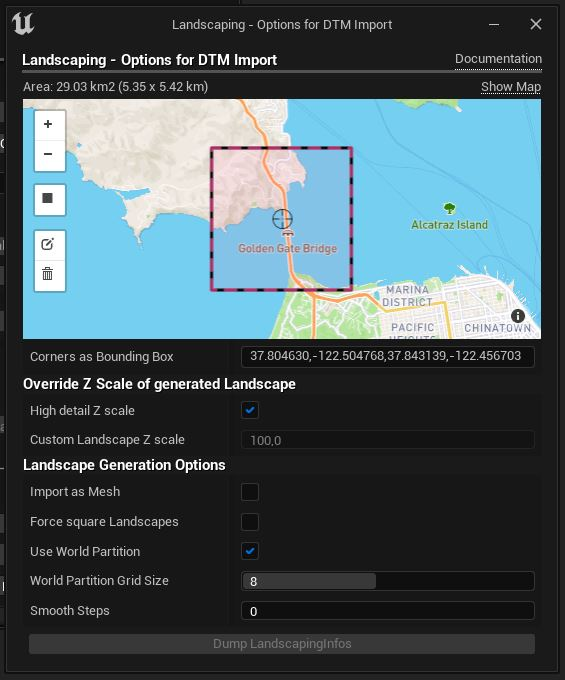
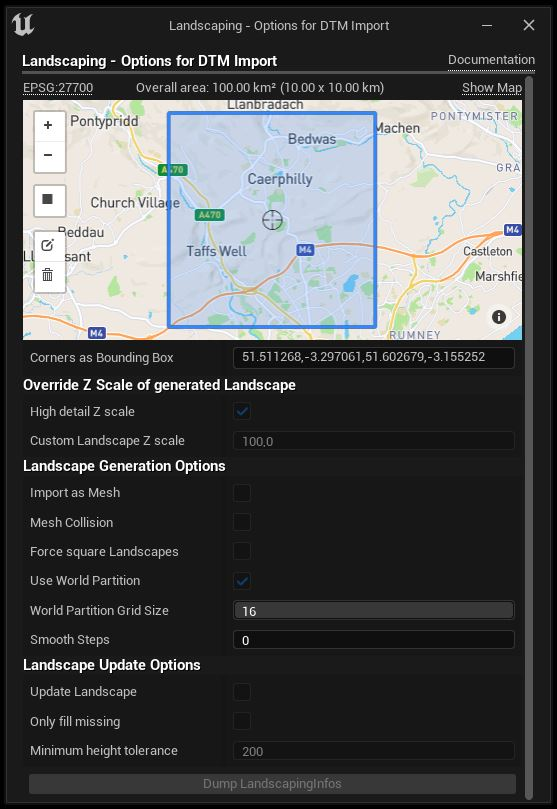
added explainations to DTM import options

diff --git a/docs/heights.md b/docs/heights.md
@@ -25,25 +25,25 @@ For downloading heightmaps from Mapbox using the `Landscaping Mapbox` plugin, th
 
 ## Import Area (optional)
 
-> In UE5, you can simply view and/or select the area on the integrated browser, you do not have to copy-paste the bounding box.
+> In UE5 (from plugin version 7.0 on), you can simply view and/or select the area on the integrated browser, you do not have to copy-paste the bounding box.
 
-![UE5 integrated Map Selection](_media/ue5_integrated_browser.jpg)
+![UE5 integrated Map Selection](_media/ue5_integrated_browser.jpg)  
 
+> The following step is only necessary for plugin version lower 7.0 and UE4 users  
 Here it is possible to limit the area which should be imported. To get an idea what is imported please click on `Show Map`:  
-![Show Map](_media/ue4_landscaping_dtm_huge.jpg)
-
+![Show Map](_media/ue4_landscaping_dtm_huge.jpg)  
+> The following step is only necessary for plugin version lower 7.0 and UE4 users  
 A browser window opens and shows the area which encompasses the heightdata files:  
-![Import DTM files](_media/ue4_landscaping_dtm_map.jpg)
-
+![Import DTM files](_media/ue4_landscaping_dtm_map.jpg)  
+> The following step is only necessary for plugin version lower 7.0 and UE4 users  
 Select edit on the toolbar on the right side and drag the rectangle corners until the desired import area is covered:
-![Import DTM files](_media/ue4_landscaping_dtm_map2.jpg)
-
+![Import DTM files](_media/ue4_landscaping_dtm_map2.jpg)  
 > When importing DTM files, the import area has to be smaller than the original area!
-
+> The following step is only necessary for plugin version lower 7.0 and UE4 users  
 After clicking save, the map centers on the new area. Select the coordinates in the adress bar of the browser and copy them (Ctrl+C):
 ![Import DTM files](_media/ue4_landscaping_dtm_map3.jpg)
-
-Back in Unreal Engine Editor paste the coordinates (Ctrl+V) in the `Corners as Bounding Box` text input and hit `Enter`:
+> The following step is only necessary for plugin version lower 7.0 and UE4 users  
+Back in Unreal Engine Editor paste the coordinates (Ctrl+V) in the `Corners as Bounding Box` text input and hit `Enter`:  
 ![Limit Import Area](_media/ue4_landscaping_dtm_limit_area.jpg)
 
 The info text should now show the new extent of the area. Only this part of the heightdata will be imported.
@@ -52,11 +52,11 @@ The info text should now show the new extent of the area. Only this part of the 
 
 ### High Detail Z Scale
 
-The vertical scale will be calculated automatically to perserve the most detail, using the maximum available Unreal Engine Landscape vertical resolution. Defaults to `true`.
+The vertical scale will be calculated automatically to perserve the most detail, using the maximum available Unreal Engine Landscape vertical resolution. Defaults to `true`. This should be set to `false` when extending or updating the heightmaps.  
 
 ### Custom Landscape Z Scale
 
-Use this for areas with low altitude difference to correct wrong slope calculation of Marketplace Landscape Materials (like Brushify or PLE). Defaults to `100`. 
+Use this for areas with low altitude difference or when extending or updating the landscape. Defaults to `100`. For understanding the technical reason for this, please consult [Calculating Heightmap Z Scale](https://docs.unrealengine.com/5.1/en-US/landscape-technical-guide-in-unreal-engine/).  
 
 ### Import as Mesh
 
@@ -91,6 +91,24 @@ Grid size for the World Partition Landscape.
 Apply gaussian blur on the height data before importing the landscape. This will smooth raster data with low resolution.  
 0 means, no smoothing will happen.
 For Mapbox imports the recommended value is 1 for mountain terrain, and 2 for flat terrain.  
+
+## Landscape Update Options
+
+> This only is available in World Partition
+
+### Update Landscape
+
+Wheter to update an already imported area (area must be a Landscape)
+
+### Only fill missing
+
+Only update areas with no data -> Please see the youtube video [![Fill missing heightmap areas](https://img.youtube.com/vi/2kkmY9Hi1qg/0.jpg)](https://www.youtube.com/watch?v=2kkmY9Hi1qg)
+
+> This option is only meaningful, if you try to fill missing data with mapbox, otherwise a faster way to fill missing data is just selecting (`Select DTM Files` button) all heightmap data (geotiff-, ascii- or hgt-files, also mixed is possible) and let them merge on import automatically.
+
+### Minimum height tolarance
+
+The distance between the lowest valid point of an already imported landscape and the bottom flat area (no data area) in centimeter
 
 ### Dump LandscapingInfos
 
